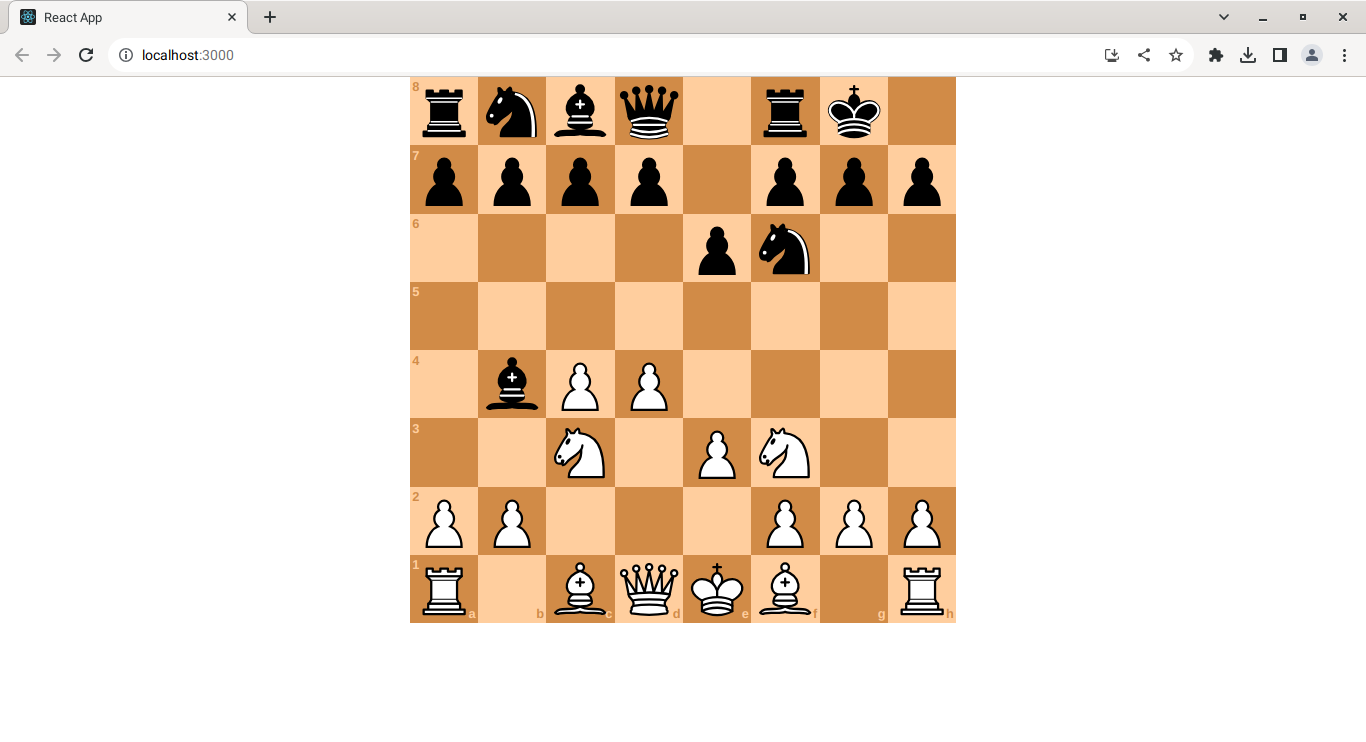
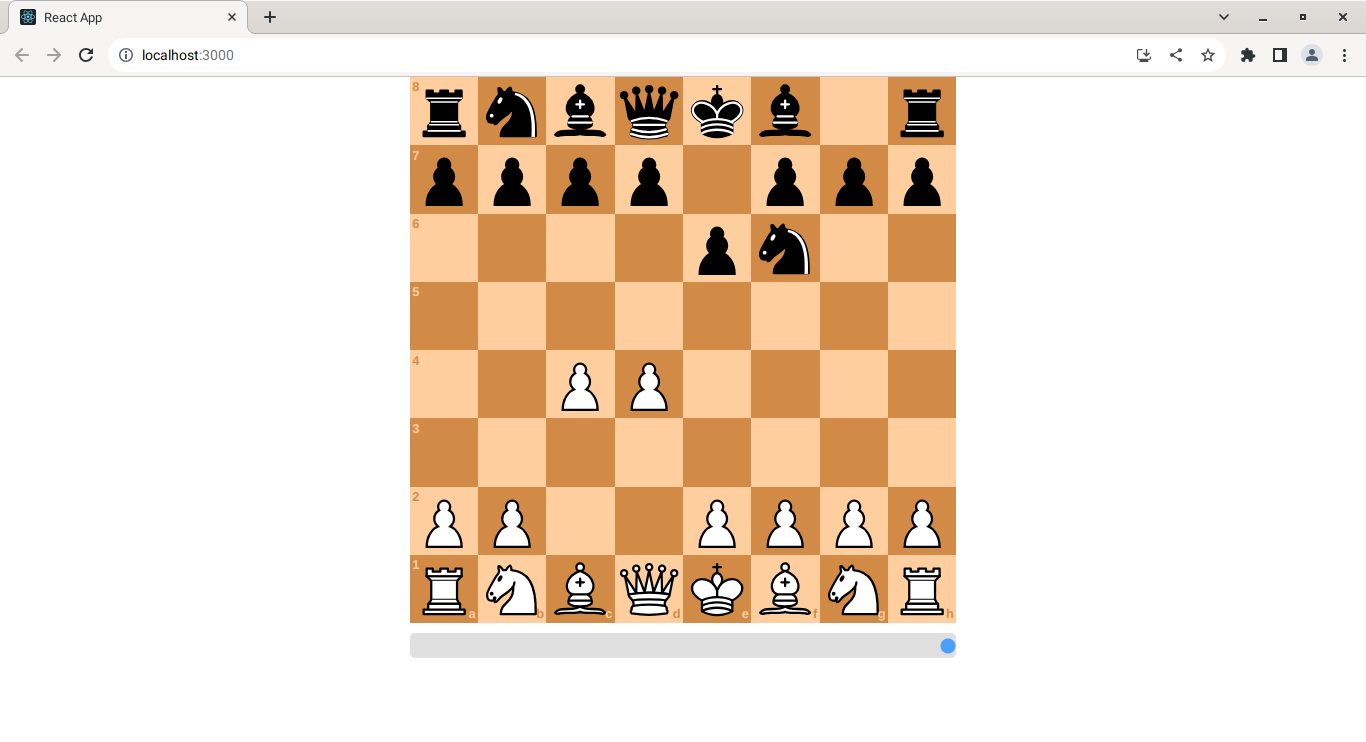
Improved the docs

diff --git a/README.md b/README.md
@@ -14,6 +14,8 @@ npm i @chesslablab/react-board
 
 ### Usage
 
+#### Initialize a Classical Board
+
 ```js
 import { ClassicalBoard } from '@chesslablab/react-board';
 
@@ -61,6 +63,51 @@ export default App;
 ```
 
 ![Figure 1](/assets/figure_01.png)
+
+#### Initialize a Capablanca Board
+
+```js
+import { CapablancaBoard } from '@chesslablab/react-board';
+
+function App() {
+  const stateBoard = {
+    turn: 'w',
+    isCapture: false,
+    isCheck: false,
+    isMate: false,
+    isStalemate: false,
+    fen: [
+      'rnabqkbcnr/pppppppppp/10/10/10/10/PPPPPPPPPP/RNABQKBCNR w KQkq -',
+      'rnabqkbcnr/pppppppppp/10/10/5P4/10/PPPPP1PPPP/RNABQKBCNR b KQkq f3',
+      'rnabqkbcnr/ppppp1pppp/10/5p4/5P4/10/PPPPP1PPPP/RNABQKBCNR w KQkq f6',
+      'rnabqkbcnr/ppppp1pppp/10/5p4/5P4/7N2/PPPPP1PPPP/RNABQKBC1R b KQkq -',
+      'r1abqkbcnr/ppppp1pppp/2n7/5p4/5P4/7N2/PPPPP1PPPP/RNABQKBC1R w KQkq -',
+    ],
+    flip: 'b',
+  };
+
+  const filterMove = () => {
+    // Implement pre-processing logic for the chess move.
+  }
+
+  const handleMove = () => {
+    // Implement validation logic for the chess move.
+  }
+
+  return (
+    <CapablancaBoard
+      stateBoard={stateBoard}
+      goBack={0}
+      filterMove={filterMove}
+      handleMove={handleMove}
+    />
+  );
+}
+
+export default App;
+```
+
+![Figure 2](/assets/figure_02.png)
 
 ### License
 
